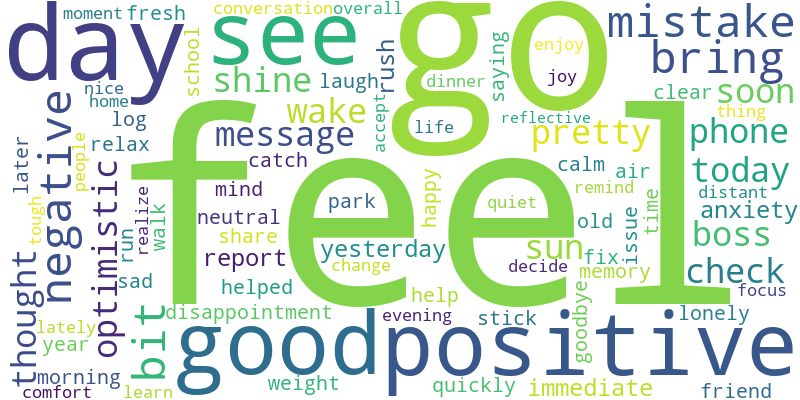
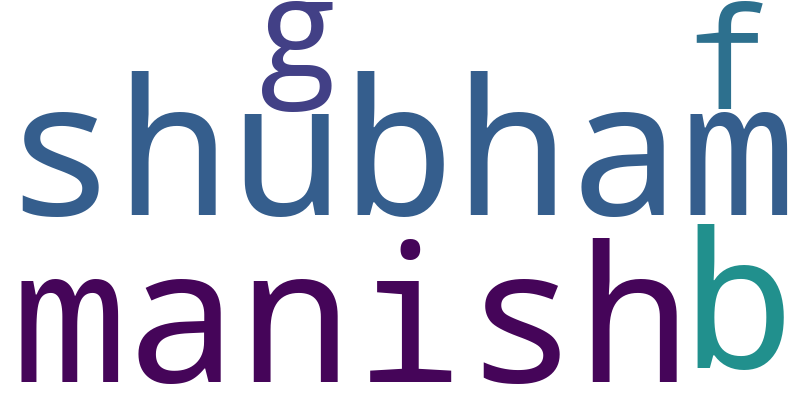
refactor

diff --git a/templates/index.html b/templates/index.html
@@ -5,28 +5,24 @@
     <meta name="viewport" content="width=device-width, initial-scale=1.0">
     <meta http-equiv="X-UA-Compatible" content="IE=edge">
     <meta name="description" content="Advanced NLP Sentiment Analysis Web Application">
-    <meta name="keywords" content="sentiment analysis, NLP, AI, machine learning, Flask app, emotion analysis, pretrained models, transformer models, DistilBERT, RoBERTa, GoEmotions, Hugging Face, Transformers, text classification, polarity detection, confidence scores, visualization, word cloud, tokenization, lemmatization, stemming, normalization, NER, named entity recognition, POS tagging, part-of-speech, spaCy, NLTK, CPU PyTorch, web app, Aradhya Pavan H S, AIML Engineer, aradhya pavan, AradhyaPavan, https://github.com/aradhyapavan, https://www.linkedin.com/in/aradhya-pavan/">
+    <meta name="keywords" content="sentiment analysis, NLP, AI, machine learning, Flask app, emotion analysis, pretrained models, transformer models, DistilBERT, RoBERTa, GoEmotions, Hugging Face, Transformers, text classification, polarity detection, confidence scores, visualization, word cloud, tokenization, lemmatization, stemming, normalization, NER, named entity recognition, POS tagging, part-of-speech, spaCy, NLTK, CPU PyTorch, web app, AIML Engineer">
     <meta name="author" content="Shubham Kumar , https://github.com/shubhkr72 ">
     <meta name="robots" content="index, follow">
     <meta name="theme-color" content="#0ea5e9">
-    <meta name="application-name" content="NLP Sentiment Analysis">
+    <meta name="application-name" content="IntelliNLP">
     <meta name="generator" content="Flask">
 
     <!-- Open Graph -->
     <meta property="og:type" content="website">
-    <meta property="og:site_name" content="NLP Sentiment Analysis">
-    <meta property="og:title" content="NLP Sentiment Analysis - Advanced AI Text Analysis">
+    <meta property="og:site_name" content="IntelliNLP">
+    <meta property="og:title" content="IntelliNLP - Advanced AI Text Analysis">
     <meta property="og:description" content="Advanced NLP Sentiment Analysis Web Application">
     <meta property="og:url" content="{{ request.url_root }}">
     <meta property="og:image" content="{{ request.url_root }}static/nlpa.png">
     <meta property="og:see_also" content="https://www.linkedin.com/in/shubham-sebrin">
     <link rel="me" href="https://www.linkedin.com/in/shubham-sebrin">
-
- 
-
     <link rel="canonical" href="{{ request.url_root }}">
-
-    <title>NLP Sentiment Analysis - Advanced AI Text Analysis</title>
+    <title>IntelliNLP - Advanced AI Text Analysis</title>
     <link rel="icon" href="favicon_io/favicon.ico">
     <link rel="apple-touch-icon" sizes="180x180" href="/static/favicon_io/apple-touch-icon.png">
     <link rel="icon" type="image/png" sizes="32x32" href="/static/favicon_io/favicon-32x32.png">
@@ -59,14 +55,14 @@
             <div class="logo-container">
                 <img src="/static/nlpa.png" alt="NLP Sentiment Analysis" class="logo-img">
     </div>
-            <h1 class="main-title">NLP <span class="highlight">Sentiment Analysis</span></h1>
-            <p class="subtitle">Sentiment analysis using pretrained models</p>
+            <h1 class="main-title">IntelliNLP <span class="highlight">AI Text Analysis</span></h1>
+            <p class="subtitle">AI Text Analysis using pretrained models</p>
         </div>
 
         <!-- Main Application Card -->
         <div class="app-card fade-in-up">
             <div class="card-header">
-                <h2 class="card-title">Sentiment Analysis Application</h2>
+                <h2 class="card-title">AI text Analysis Application</h2>
                 <p class="card-subtitle">Analyze text sentiment using pretrained models</p>
             </div>
 
@@ -80,7 +76,7 @@
                         id="inputText" 
                         name="text" 
                         rows="6" 
-                        placeholder="Enter your text here for sentiment analysis..."
+                        placeholder="Enter your text here for detailed text analysis..."
                         required
                     >{{ text or '' }}</textarea>
                 </div>
@@ -148,7 +144,7 @@
         <p class="note-text">
             <span class="me-2">💡</span>
             <strong>Pro Tip:</strong> Use our sample text for testing or download it for offline analysis. 
-            The AI models provide detailed sentiment analysis with confidence scores.
+            The AI models provide detailed text and sentiment analysis with confidence scores.
         </p>
         
         <div class="action-buttons">
